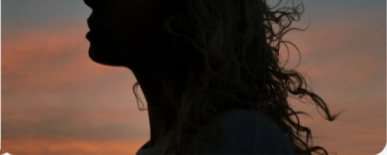
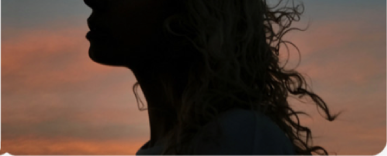
style: refine Mojave artwork and publish verified comparison evidence

diff --git a/frontend/src/AppIcon.svelte b/frontend/src/AppIcon.svelte
@@ -1,5 +1,5 @@
 <script module>
-  const vectorIcons = new Set(['folder', 'drive', 'pdf', 'trash']);
+  const vectorIcons = new Set(['drive', 'pdf', 'trash']);
 </script>
 
 <script>
@@ -7,7 +7,7 @@
 </script>
 
 {#if name === 'calendar'}
-  <span class="app-icon calendar-icon" aria-hidden="true">
+  <span class="app-icon composite-icon calendar-icon" aria-hidden="true">
     <img src="/icons/calendar.png" alt="" draggable="false" />
     <svg viewBox="0 0 128 128">
       <defs>
@@ -28,11 +28,19 @@
       </g>
     </svg>
   </span>
+{:else if name === 'downloads'}
+  <span class="app-icon composite-icon" aria-hidden="true">
+    <img src="/icons/folder.png" alt="" draggable="false" />
+    <svg viewBox="0 0 128 128">
+      <path d="M59 48h10v22h13L64 89 46 70h13Z" transform="translate(0 1)" fill="#b8e7f8" opacity=".65" />
+      <path d="M59 48h10v22h13L64 89 46 70h13Z" fill="#2e8cb9" opacity=".65" />
+    </svg>
+  </span>
 {:else}
   <img class="app-icon" src={`/icons/${name}.${vectorIcons.has(name) ? 'svg' : 'png'}`} alt="" aria-hidden="true" draggable="false" />
 {/if}
 
 <style>
-  .calendar-icon { position: relative; display: block; }
-  .calendar-icon img, .calendar-icon svg { position: absolute; inset: 0; width: 100%; height: 100%; }
+  .composite-icon { position: relative; display: block; }
+  .composite-icon img, .composite-icon svg { position: absolute; inset: 0; width: 100%; height: 100%; }
 </style>

diff --git a/frontend/src/messages.css b/frontend/src/messages.css
@@ -376,7 +376,7 @@
 .photo-content img {
   display: block;
   width: 387px;
-  height: 155px;
+  height: 156px;
   margin-top: 1px;
   object-fit: fill;
 }
@@ -398,7 +398,8 @@
 }
 
 .message-bubble.incoming p {
-  padding-left: 15px;
+  padding-top: 6px;
+  padding-left: 14px;
 }
 
 .message-bubble.incoming {
@@ -435,17 +436,17 @@
 }
 
 .photo-thanks {
-  top: 242px;
-  left: 24px;
-  width: 312px;
-  height: 56px;
+  top: 243px;
+  left: 25px;
+  width: 310px;
+  height: 54px;
 }
 
 .camping-invitation {
-  top: 313px;
-  left: 24px;
-  width: 312px;
-  height: 78px;
+  top: 314px;
+  left: 25px;
+  width: 310px;
+  height: 76px;
 }
 
 .message-emoji {
@@ -476,10 +477,10 @@
 }
 
 .message-bubble.camping-response {
-  top: 500px;
-  right: 26px;
-  width: 107px;
-  height: 35px;
+  top: 501px;
+  right: 27px;
+  width: 106px;
+  height: 33px;
   background: linear-gradient(#1088f2, #0d84f1);
 }
 

diff --git a/frontend/src/Desktop.svelte b/frontend/src/Desktop.svelte
@@ -50,7 +50,7 @@
     <div class="dock-separator" aria-hidden="true"></div>
     <div class="dock-item" aria-label="Photos, recent application"><AppIcon name="photos"/></div>
     <div class="dock-separator" aria-hidden="true"></div>
-    <div class="dock-item" aria-label="Downloads"><AppIcon name="folder"/></div>
+    <div class="dock-item" aria-label="Downloads"><AppIcon name="downloads"/></div>
     <div class="dock-item" aria-label="Trash"><AppIcon name="trash"/></div>
   </footer>
 </div>

diff --git a/frontend/src/MessagesWindow.svelte b/frontend/src/MessagesWindow.svelte
@@ -79,7 +79,7 @@
     <ol class="message-history" aria-label="Conversation with Shelley Willems">
       <li class="message-photo">
         <div class="photo-content">
-          <img src="/messages/silhouette-photo.png" alt="A woman silhouetted against a sunset" width="387" height="155" />
+          <img src="/messages/silhouette-photo.png" alt="A woman silhouetted against a sunset" width="387" height="156" />
         </div>
         {@render bubbleTail('incoming', '#805b41')}
       </li>

diff --git a/docs/mojave-fidelity.md b/docs/mojave-fidelity.md
@@ -78,7 +78,7 @@ The discrete content assets in `frontend/public/messages/` are crops of the prim
 | Greg portrait | (28, 444, 67, 67) |
 | Euna portrait | (28, 532, 67, 67) |
 | Ryan portrait | (28, 621, 67, 67) |
-| Silhouette photograph | (400, 80, 387, 155) |
+| Silhouette photograph | (400, 80, 387, 156) |
 | Grinning face | (695, 492, 65, 68) |
 | Camping | (765, 496, 70, 65) |
 | National park | (838, 491, 67, 70) |
@@ -102,7 +102,9 @@ Source ICNS paths under the mirror's `docs/`:
 - Photos: `com.apple.Photos/AppIcon.icns`
 - System Preferences: `com.apple.systempreferences/PrefApp.icns`
 
-Folder, drive, PDF, and Trash SVGs are original illustrations, not authentic Mojave CoreTypes assets. Calendar retains the extracted paper artwork but reconstructs its date face with SVG text as **SEP 24**, matching the static September 24 menu-bar scene rather than incorrectly showing the source asset's July 17. The [period TechRepublic desktop gallery](https://www.techrepublic.com/pictures/apple-macos-mojave-a-look-at-the-new-features/) provides additional evidence of the date-aware, tilted-paper Dock icon.
+Drive, PDF, and Trash SVGs remain original illustrations, not authentic Mojave CoreTypes assets. The earlier generic folder SVG was replaced with the preserved `GenericFolderIcon.Yosemite.iconset/icon_128x128.png` from [folderify v2.4.2](https://github.com/lgarron/folderify/tree/v2.4.2/folderify/GenericFolderIcon.Yosemite.iconset). Its [version-selection implementation](https://github.com/lgarron/folderify/blob/v2.4.2/folderify/__main__.py) explicitly selects this family for macOS 10.10 through **10.15**, including Mojave 10.14. The Downloads variant adds an original embossed SVG arrow over that base. The mirror's software-license notice is retained; it is not independent commercial clearance for Apple artwork.
+
+Calendar retains the extracted paper artwork but reconstructs its date face with SVG text as **SEP 24**, matching the static September 24 menu-bar scene rather than incorrectly showing the source asset's July 17. The [period TechRepublic desktop gallery](https://www.techrepublic.com/pictures/apple-macos-mojave-a-look-at-the-new-features/) provides additional evidence of the date-aware, tilted-paper Dock icon. Source repository license notices are included under `frontend/public/icons/`.
 
 ## Verified reconstruction checkpoint
 
@@ -117,3 +119,80 @@ Overlay-guided changes aligned portrait rows to measured integer y positions, re
 The production render at the same 928×710/DPR-1 comparison pose measures **7.007% normalized RMSE** overall; regional values are 6.451% toolbar, 7.208% sidebar, 7.185% conversation, and 4.335% composer. About 8.734% of opaque reference pixels exceed an RGB-channel error of 8. The first-to-calibrated exact-size RMSE reduction is approximately 11.3%; neither result is zero.
 
 These figures include text and artwork edges. Remaining errors include SF-versus-open-font glyph shapes and spacing, native rasterization versus browser rasterization, rounded-edge/bubble-tail details, control glyphs, and minor source-image edge differences. Desktop icons from Catalina and original CoreTypes-style illustrations are separately disclosed; a whole-desktop pixel-identity result has not been established.
+
+## Final measured render and live comparison
+
+The last refinement preserved the photograph's full 156-pixel crop at intrinsic size and aligned incoming/last-outgoing bubble extents to measured source pixels. It also replaced the generic folder illustration with the preserved Yosemite/Mojave-family bitmap and added the Downloads emboss.
+
+Final comparison: 928×710, Chromium on Linux, DPR 1; no registration or image resizing:
+
+| Region | Normalized RGB RMSE |
+| --- | ---: |
+| Entire Messages window | **6.854%** |
+| Toolbar | 6.451% |
+| Sidebar | 7.208% |
+| Conversation | 6.871% |
+| Composer | 4.335% |
+
+Mean absolute channel error is 4.139/255. About 8.683% of opaque reference pixels have at least one RGB-channel error above 8. Text, photos, avatars, emoji, and control/bubble edges all remain in the score. This is a measured approximation, **not zero difference**. Native SF/AppKit rendering and cross-platform open-font/browser rendering are not interchangeable; native Mojave verification and a permitted exact font/assets distribution path are unavailable in this Linux project environment.
+
+Current local previews:
+
+- Actor-facing desktop: `http://localhost:3000/`
+- Separate comparison viewer: `http://localhost:3001/`
+
+The comparison viewer is a second Rust server serving ignored evidence files, not a developer panel in the actor-facing app. Its slider was exercised with keyboard input at 0% and 100%, then viewed at 50%; the difference-map disclosure was opened. All three evidence images loaded locally and there were no page errors.
+
+Evidence files:
+
+- `artifacts/mojave/reference.png`
+- `artifacts/mojave/reconstruction-final.png`
+- `artifacts/mojave/final-comparison/index.html`
+- `artifacts/mojave/final-comparison/overlay.png`
+- `artifacts/mojave/final-comparison/difference-4x.png`
+- `artifacts/mojave/final-comparison/metrics.json`
+- `artifacts/mojave/viewport-proof.json`
+- `artifacts/mojave/desktop-{width}x{height}.png`
+
+The final production surface was exercised at 1440×900, **1920×1080**, 1280×800, 1024×768, and 390×844. Window, Dock, and desktop files stayed inside each viewport, with no window/Dock overlap, document overflow, broken images, external-origin resource requests, or page errors. The health endpoint returned `status: ok`. The final Vite build completed without component warnings.
+
+## Reproducing the comparison
+
+Comparison tooling requires Bun and ImageMagick; these are not extra runtime requirements for the served puppet screen.
+
+1. Obtain the linked original Apple reference PNG, then crop its transparent padding:
+
+   ```sh
+   mkdir -p artifacts/mojave
+   curl -L --fail 'https://help.apple.com/assets/5CA2B98509462224109A65C3/5CA2B98909462224109A65CB/en_US/f1d950e0f2f08a902a1927bc5be67446.png' -o artifacts/mojave/messages-light.png
+   magick artifacts/mojave/messages-light.png -crop 928x710+0+0 +repage artifacts/mojave/reference.png
+   ```
+
+2. Build/start the app using the README commands. In Chromium, set the device viewport to 1440×900 and DPR to **1**. In DevTools Console, pose the window without changing its skin:
+
+   ```js
+   const slot = document.querySelector('.window-position');
+   slot.style.setProperty('--window-scale', '1');
+   slot.style.left = '20px';
+   slot.style.top = '20px';
+   await document.fonts.ready;
+   ```
+
+   Use Elements → `.messages-window` → Capture node screenshot. Save the resulting **928×710** PNG as `artifacts/mojave/reconstruction-final.png`. Reload afterward to restore ordinary desktop placement. Mac/native-font captures may produce different measurements from the verified Linux/open-font run.
+
+3. Generate and serve the evidence:
+
+   ```sh
+   bun tools/compare-mojave.mjs artifacts/mojave/reference.png artifacts/mojave/reconstruction-final.png artifacts/mojave/final-comparison
+   backend/target/release/jesteros-backend --bind 127.0.0.1:3001 --frontend-dir artifacts/mojave/final-comparison
+   ```
+
+   Open `http://localhost:3001/` or the generated `index.html` directly. The tool rejects unequal image dimensions instead of silently resampling.
+
+4. Exercise the comparison regression:
+
+   ```sh
+   bun test tools/compare-mojave.test.mjs
+   ```
+
+   This uses real ImageMagick and catches transparent-reference padding corrupting the score, transparent difference maps hiding real errors, and grayscale source images losing RGB differences. It failed before explicit true-color conversion and passed after the fix. The application surface was verified in the browser rather than through mocked UI tests.

diff --git a/README.md b/README.md
@@ -107,6 +107,14 @@ The desktop uses Apple's Mojave Day photograph and detailed pre-Big-Sur applicat
 
 ## Verification
 
-The production build and Rust-served desktop were exercised in Chromium at 1440×900, 1280×800, 1024×768, and 390×844. The desktop, Messages window, and dock stayed within the viewport; production assets loaded only from the local origin with no browser errors.
+The final production build and Rust-served desktop were exercised in Chromium at 1440×900, 1920×1080, 1280×800, 1024×768, and 390×844. Window, Dock, and desktop files stayed inside every viewport without window/Dock overlap or document overflow. All images/fonts loaded locally; there were no broken images, external-origin resources, or browser page errors.
 
-HTTP smoke checks covered the health response, unknown API routes, unsupported health methods, root HTML, missing assets, and the missing-frontend startup diagnostic. The combined development command and Vite API proxy were also exercised. There is no permanent automated test suite yet.
+Earlier backend smoke checks covered the health response, unknown API routes, unsupported health methods, root HTML, missing assets, and the missing-frontend startup diagnostic. The combined development command and Vite API proxy were also exercised. The latest health check returned `status: ok`. There is no application UI test suite; `bun test tools/compare-mojave.test.mjs` passes a real-ImageMagick regression for RGB errors, transparent padding, and visible difference maps.
+
+## Visual comparison
+
+The current desktop is at **http://localhost:3000**. The separately served evidence viewer is at **http://localhost:3001**, with a reference-opacity slider and a 4× difference map. It does not add operator/developer UI to the actor-facing screen.
+
+Against Apple's Mojave Messages guide, the final exact-size 928×710/DPR-1 browser capture measures **6.854% normalized RGB RMSE**. That is nonzero, not pixel identity. SF/open-font glyphs, native/browser rasterization, and some original desktop-icon illustrations remain different. Full evidence, asset/rights caveats, comparison commands, and capture instructions are in [Mojave fidelity research](docs/mojave-fidelity.md).
+
+Generated evidence lives under ignored `artifacts/mojave/`; reproduce it after a fresh checkout rather than treating reference screenshots as application UI.
